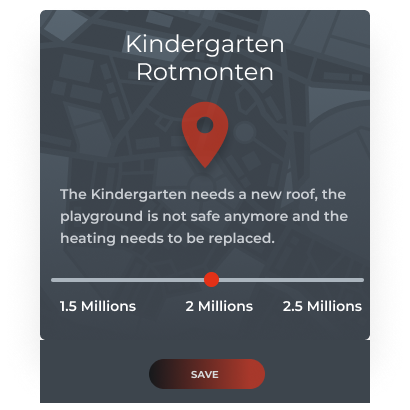
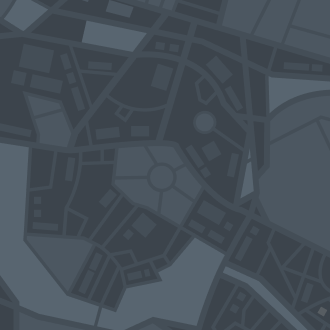
Dashboard Changes

diff --git a/client/src/components/Dashboard.jsx b/client/src/components/Dashboard.jsx
@@ -1,3 +1,5 @@
+import Map from "../images/Map.svg";
+import Graph from "../images/RGraph.svg";
 
 function Dashboard() {
     return (
@@ -7,8 +9,9 @@ function Dashboard() {
                 <div className="col-sm-10 text-center">
                     <div className="card Hcard">
                         <div className="card-body">
-                            <h5 className="card-title">Expenses of city 2022</h5>
-                            <p className="card-text">Some quick example text to build on the card title and make up the bulk of the card's content.</p>
+                            <div className="row">
+                                <img className="img-fluid"src={Graph} alt="graph"></img>
+                            </div>
                             <span className="Hbutton btn">SHOW ME MORE</span>
                         </div>
                     </div>
@@ -19,12 +22,8 @@ function Dashboard() {
             <div className="row">
                 <div className="col-sm-1"></div>
                 <div className="col-sm-10 text-center">
-                    <div className="card Hcard">
-                        <div className="card-body">
-                            <h5 className="card-title">Expenses of city 2022</h5>
-                            <p className="card-text">Some quick example text to build on the card title and make up the bulk of the card's content.</p>
-                            <span className="Hbutton btn">SHOW ME MORE</span>
-                        </div>
+                    <div className="card-body Hcard" style={{ padding: "0px 0px 0px 0px", marginBottom: "20px" }} id="budget">
+                        <img className="img-fluid" src={Map} alt="map"></img>
                     </div>
                 </div>
                 <div className="col-sm-1"></div>

diff --git a/client/src/styles/App.scss b/client/src/styles/App.scss
@@ -27,7 +27,7 @@ body {
 
 .Hbutton {
   background: linear-gradient(90deg, rgba(0, 0, 0, 0.8) 0%, rgba(228, 49, 23, 0.8) 87.07%);
-  border-radius: 20px!important;
-  font-size: 10px!important;
-  color:white!important;
+  border-radius: 20px !important;
+  font-size: 10px !important;
+  color: white !important;
 }

diff --git a/client/src/App.js b/client/src/App.js
@@ -36,7 +36,7 @@ class App extends React.Component {
 
   render() {
     return (
-      <div className="container" style={{ "margin-top":"15%"}}>
+      <div className="container" style={{ "marginTop":"100px"}}>
         <Header/>
         <figure className="fluidratio"></figure>
         <Router>

diff --git a/client/src/components/Footer.js b/client/src/components/Footer.js
@@ -19,7 +19,6 @@ class Footer extends React.Component {
 
   render() {
     return (
-      
       <div>
         <ul className="Footer fixed-bottom" >
           <li onClick={this.handleNavClick.bind(this)}>
